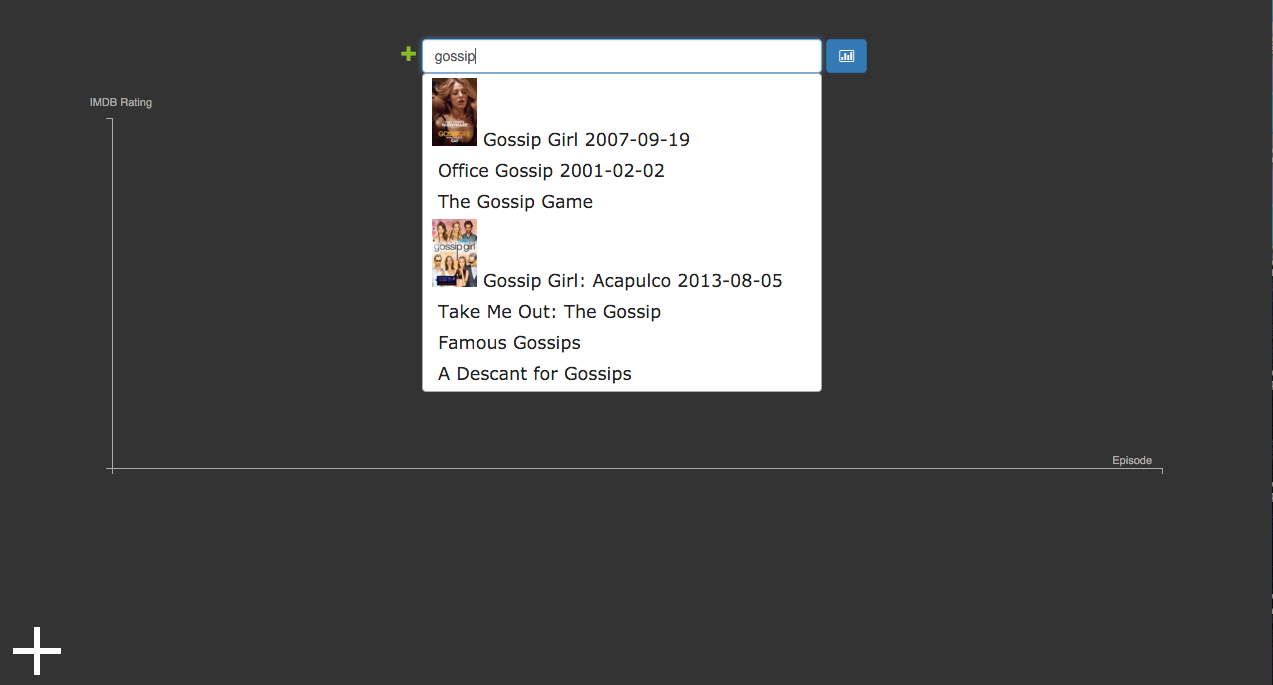
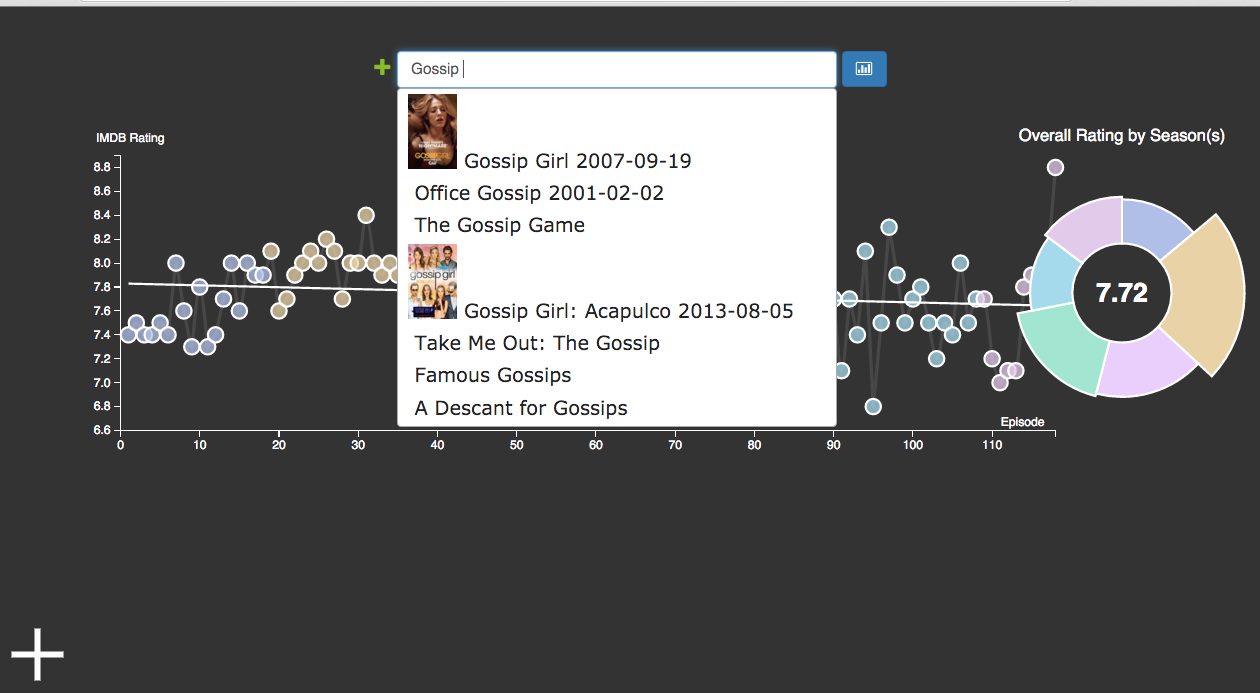
updated post

diff --git a/_posts/2015-12-5-autocomplete.md b/_posts/2015-12-5-autocomplete.md
@@ -6,7 +6,7 @@ category: TUTORIALS
 tags: [ 'tutorials' ]
 ---
 
-I was working on a TV show recommendation app that allows users to visualize the show ratings using D3.js. One of the features I worked on was the autocomplete feature for show names. The autocomplete feature searches in a movie database using <a href ="https://www.themoviedb.org/">a movie database API</a> and suggests show names as a user types in the name of the show they are trying to search for. 
+I was working on a TV show recommendation app that allows users to visualize the show ratings using D3.js. One of the features I worked on was the autocomplete dynamic search feature for show names. The autocomplete feature searches in a movie database using <a href ="https://www.themoviedb.org/">a movie database API</a> and suggests show names as a user types in the name of the show they are trying to search for. 
 
 ![](/blogimgs/autocomplete/autocomplete.jpg)
 
@@ -30,7 +30,7 @@ $(function(){
     }).data("uiAutocomplete")._renderItem = function( ul, item ) {
         return $("<li></li>")
             .data( "item.autocomplete", item )
-            .append( "<a>" + (item.img?"<img class='imdbImage' src='imdbImage.php?url=" + item.img + "' />":"") + "<span class='imdbTitle'>" + item.label + "</span>" + (item.cast?"<br /><span class='imdbCast'>" + item.cast + "</span>":"") + "<div class='clear'></div></a>" )
+            .append( "<a><img width='45' height='68' src=" + ImgPath + "w92" + item.poster_path + "> <strong>" + item.name + "</strong>  " + item.first_air_date + " </a>" )
             .appendTo( ul );
     };
 });
@@ -92,10 +92,11 @@ angular.module('app.autocomplete', [])
 
 There are couple more things you also need to look out for:
 
-    1. Make sure the order you load Angular and jQuery is correct. You need to load jQuery before Angular on your index.html, otherwise, in this case it would give you an error such as 'elem.autocomplete is not a function' because it thinks .autocomplete is a part of angular.
+1. Make sure the order you load Angular and jQuery is correct. You need to load jQuery before Angular on your index.html, otherwise, in this case it would give you an error such as 'elem.autocomplete is not a function' because it thinks .autocomplete is a part of angular.
     
-    2. Make sure you are requesting JSONP instead of jus JSON because JSON would give you an 'Method JSON is not allowed by Access-Control-Allow-Methods in preflight response.' error. And make sure you are adding '&callback=JSON_CALLBACK' when you are using JSONP method :)
+2. Make sure you are requesting JSONP instead of jus JSON because JSON would give you an 'Method JSON is not allowed by Access-Control-Allow-Methods in preflight response.' error. And make sure you are adding '&callback=JSON_CALLBACK' when you are using JSONP method :)
 
+<a href= 'http://shouldwewatchthis.herokuapp.com/'>Check out our TV Show ratings visualizer app with this dynamic search feature</a>
 
 
 
